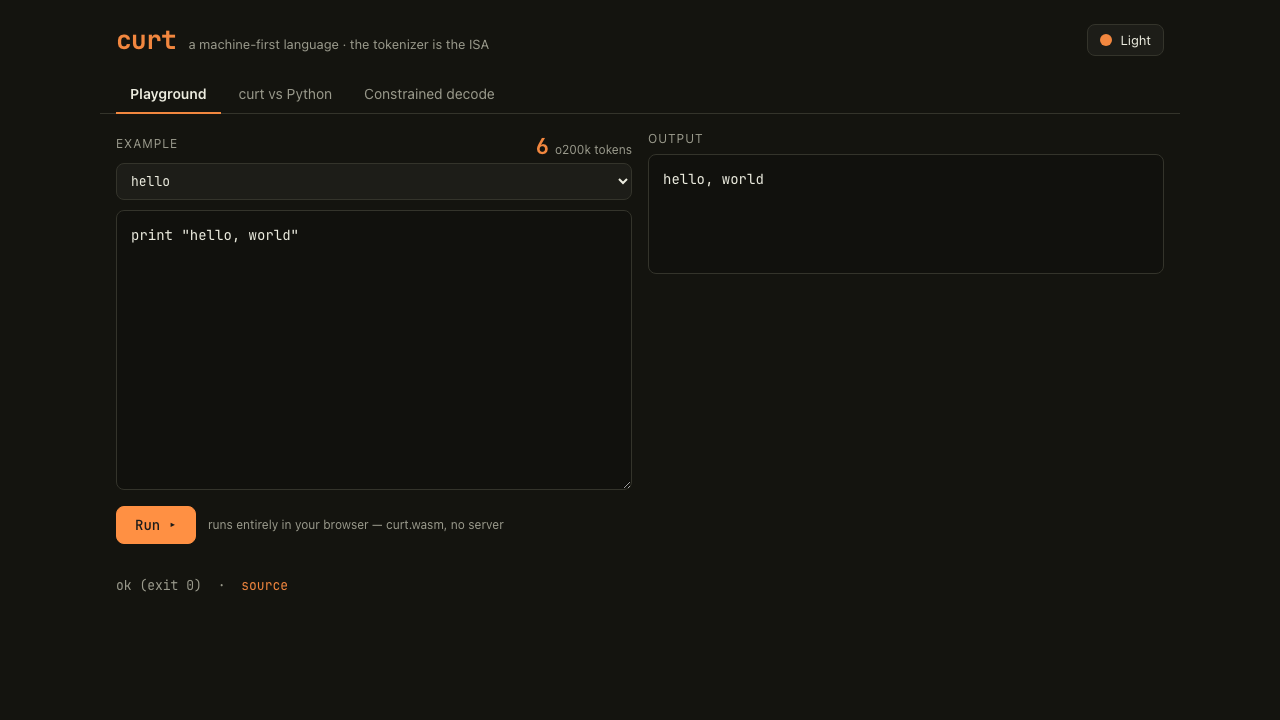
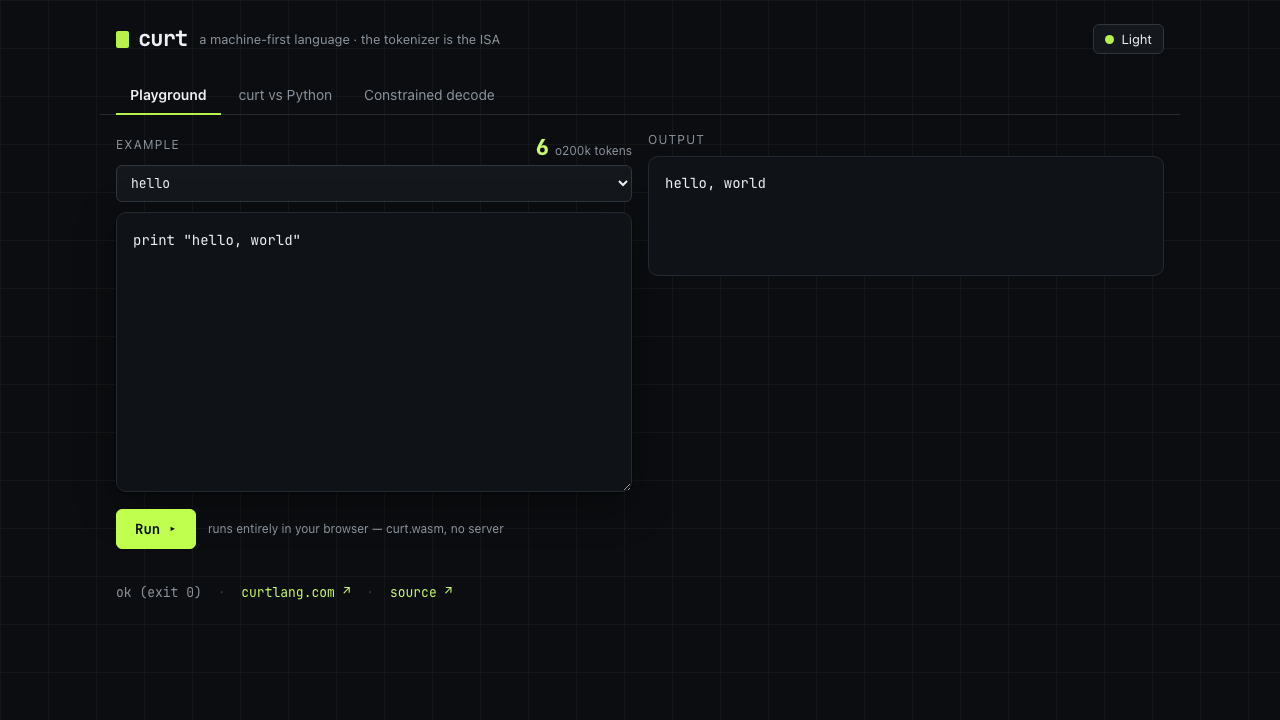
playground: re-skin to the curtlang.com fresh brand
The embedded /play/ clashed with the new brand site (old terminal-orange
tool theme). Re-skin styles.css to the fresh brand tokens (ink + lime, grid
backdrop, mono/sans, blinking brand-mark, lime meter/Run/active-tab) so the
playground is visually continuous with curtlang.com — pure CSS plus a
curtlang.com footer link. Class names and behavior unchanged: all 7
gui-scrutiny tests still pass. Stays valid as a standalone HF Space (the
home link is an absolute URL).

diff --git a/playground/styles.css b/playground/styles.css
@@ -1,37 +1,47 @@
-/* curt playground — design tokens + light/dark. Terminal-meets-docs. */
+/* curt playground — wears the curtlang.com fresh brand (ink + lime,
+   editorial-technical). Tokens mirror site/assets/brand.css so the embedded
+   /play/ is visually continuous with the marketing pages; still self-contained
+   so it stands alone as a Hugging Face Space. */
 :root {
   --font-mono: ui-monospace, "SF Mono", "JetBrains Mono", "Fira Code", Menlo, Consolas, monospace;
-  --font-sans: system-ui, -apple-system, "Segoe UI", Roboto, sans-serif;
-  --radius: 8px;
+  --font-sans: "Inter", system-ui, -apple-system, "Segoe UI", Roboto, Helvetica, Arial, sans-serif;
+  --radius: 10px;
+  --radius-sm: 6px;
   --gap: 16px;
   --maxw: 1080px;
 
-  --bg: #f7f7f4;
+  --bg: #fbfbf8;
   --surface: #ffffff;
-  --surface-2: #f0f0ec;
-  --text: #1a1a18;
-  --text-dim: #6b6b66;
-  --border: #d9d9d2;
-  --accent: #b5470b;
-  --accent-text: #ffffff;
-  --good: #1a7f4b;
-  --bad: #b5470b;
-  --code-bg: #f4f4ef;
-  --shadow: 0 1px 2px rgba(0,0,0,.06), 0 4px 12px rgba(0,0,0,.04);
+  --surface-2: #f3f3ee;
+  --text: #14171a;
+  --text-dim: #5d646c;
+  --border: #e4e4da;
+  --border-2: #d4d4c8;
+  --accent: #88c70a;          /* graphic: button bg, marks, borders */
+  --accent-strong: #4f7d06;   /* text on light */
+  --accent-text: #0b0d10;     /* text on accent bg */
+  --good: #4f7d06;
+  --bad: #9a5b00;
+  --code-bg: #f7f7f2;
+  --shadow: 0 1px 2px rgba(0,0,0,.06), 0 12px 36px rgba(0,0,0,.06);
+  --grid: rgba(0,0,0,.03);
 }
 [data-theme="dark"] {
-  --bg: #14140f;
-  --surface: #1d1d18;
-  --surface-2: #26261f;
-  --text: #ececdf;
-  --text-dim: #9a9a8c;
-  --border: #34342b;
-  --accent: #f2873f;
-  --accent-text: #1a1a18;
-  --good: #5fd99a;
-  --bad: #f2873f;
-  --code-bg: #11110d;
-  --shadow: 0 1px 2px rgba(0,0,0,.4), 0 6px 18px rgba(0,0,0,.3);
+  --bg: #0b0d10;
+  --surface: #14181d;
+  --surface-2: #191e24;
+  --text: #eef1f4;
+  --text-dim: #8a939d;
+  --border: #232a31;
+  --border-2: #2e373f;
+  --accent: #b6f24a;
+  --accent-strong: #c8f96e;
+  --accent-text: #0b0d10;
+  --good: #b6f24a;
+  --bad: #f2a93f;
+  --code-bg: #0f1216;
+  --shadow: 0 1px 2px rgba(0,0,0,.5), 0 12px 40px rgba(0,0,0,.35);
+  --grid: rgba(255,255,255,.035);
 }
 
 * { box-sizing: border-box; }
@@ -40,29 +50,40 @@ body {
   background: var(--bg);
   color: var(--text);
   font-family: var(--font-sans);
-  line-height: 1.5;
+  line-height: 1.55;
   -webkit-font-smoothing: antialiased;
+  background-image: linear-gradient(var(--grid) 1px, transparent 1px), linear-gradient(90deg, var(--grid) 1px, transparent 1px);
+  background-size: 48px 48px;
 }
 
 .topbar {
-  max-width: var(--maxw); margin: 0 auto; padding: 20px var(--gap) 8px;
+  max-width: var(--maxw); margin: 0 auto; padding: 22px var(--gap) 10px;
   display: flex; align-items: center; justify-content: space-between; gap: var(--gap);
 }
-.brand { display: flex; align-items: baseline; gap: 12px; flex-wrap: wrap; }
-.logo { font-family: var(--font-mono); font-weight: 700; font-size: 26px; color: var(--accent); letter-spacing: -.5px; }
+.brand { display: flex; align-items: center; gap: 12px; flex-wrap: wrap; }
+.logo {
+  display: inline-flex; align-items: center; gap: 9px;
+  font-family: var(--font-mono); font-weight: 700; font-size: 22px; color: var(--text); letter-spacing: -.04em;
+}
+.logo::before {
+  content: ""; width: 13px; height: 17px; background: var(--accent); border-radius: 2px;
+  display: inline-block; animation: blink 1.4s steps(2) infinite;
+}
+@keyframes blink { 50% { opacity: .25; } }
+@media (prefers-reduced-motion: reduce) { .logo::before { animation: none; } }
 .tagline { color: var(--text-dim); font-size: 13px; }
 
 .theme-toggle {
-  display: inline-flex; align-items: center; gap: 8px;
+  display: inline-flex; align-items: center; gap: 7px;
   background: var(--surface); color: var(--text);
-  border: 1px solid var(--border); border-radius: var(--radius);
-  padding: 7px 12px; cursor: pointer; font-size: 13px; font-family: var(--font-sans);
+  border: 1px solid var(--border-2); border-radius: var(--radius-sm);
+  padding: 6px 11px; cursor: pointer; font-size: 13px; font-family: var(--font-sans);
 }
 .theme-toggle:hover { border-color: var(--accent); }
-.theme-toggle-icon { width: 12px; height: 12px; border-radius: 50%; background: var(--accent); display: inline-block; }
+.theme-toggle-icon { width: 9px; height: 9px; border-radius: 50%; background: var(--accent); display: inline-block; }
 
 .tabs {
-  max-width: var(--maxw); margin: 8px auto 0; padding: 0 var(--gap);
+  max-width: var(--maxw); margin: 10px auto 0; padding: 0 var(--gap);
   display: flex; gap: 4px; border-bottom: 1px solid var(--border);
 }
 .tab {
@@ -82,39 +103,41 @@ main { max-width: var(--maxw); margin: 0 auto; padding: var(--gap); }
 
 .row { display: flex; align-items: center; gap: 12px; margin-top: 10px; }
 .row.between { justify-content: space-between; margin-top: 0; }
-.label { font-size: 12px; text-transform: uppercase; letter-spacing: .08em; color: var(--text-dim); margin-bottom: 6px; }
+.label { font-size: 12px; text-transform: uppercase; letter-spacing: .1em; color: var(--text-dim); margin-bottom: 6px; }
 
 .select {
   width: 100%; padding: 8px 10px; margin-bottom: 10px;
   background: var(--surface); color: var(--text);
-  border: 1px solid var(--border); border-radius: var(--radius);
+  border: 1px solid var(--border-2); border-radius: var(--radius-sm);
   font-family: var(--font-mono); font-size: 13px;
 }
 .editor {
   width: 100%; min-height: 280px; resize: vertical;
   background: var(--code-bg); color: var(--text);
   border: 1px solid var(--border); border-radius: var(--radius);
-  padding: 14px; font-family: var(--font-mono); font-size: 14px; line-height: 1.55; tab-size: 2;
+  padding: 16px; font-family: var(--font-mono); font-size: 14px; line-height: 1.7; tab-size: 2;
+  box-shadow: var(--shadow);
 }
 .editor:focus { outline: 2px solid var(--accent); outline-offset: -1px; }
 
 .meter { display: flex; align-items: baseline; gap: 6px; }
-.meter-num { font-family: var(--font-mono); font-size: 22px; font-weight: 700; color: var(--accent); }
+.meter-num { font-family: var(--font-mono); font-size: 22px; font-weight: 750; color: var(--accent-strong); }
 .meter-unit { font-size: 12px; color: var(--text-dim); }
 
 .btn {
-  background: var(--surface-2); color: var(--text); border: 1px solid var(--border);
-  border-radius: var(--radius); padding: 9px 18px; cursor: pointer;
-  font-family: var(--font-mono); font-size: 14px; font-weight: 600;
+  background: var(--surface-2); color: var(--text); border: 1px solid var(--border-2);
+  border-radius: var(--radius-sm); padding: 10px 18px; cursor: pointer;
+  font-family: var(--font-mono); font-size: 14px; font-weight: 650;
 }
+.btn:hover { border-color: var(--accent); }
 .btn.primary { background: var(--accent); color: var(--accent-text); border-color: var(--accent); }
-.btn.primary:hover { filter: brightness(1.07); }
+.btn.primary:hover { filter: brightness(1.06); }
 .btn:disabled { opacity: .5; cursor: default; }
 .hint { color: var(--text-dim); font-size: 12px; }
 
 .output {
   background: var(--code-bg); border: 1px solid var(--border); border-radius: var(--radius);
-  padding: 14px; min-height: 120px; margin: 0;
+  padding: 16px; min-height: 120px; margin: 0;
   font-family: var(--font-mono); font-size: 14px; white-space: pre-wrap; word-break: break-word;
 }
 .output.err { color: var(--bad); }
@@ -122,41 +145,43 @@ main { max-width: var(--maxw); margin: 0 auto; padding: var(--gap); }
 
 .blurb { color: var(--text-dim); max-width: 60ch; }
 .vs-summary { display: flex; align-items: baseline; gap: 12px; margin: 8px 0 18px; flex-wrap: wrap; }
-.vs-summary .big { font-family: var(--font-mono); font-size: 40px; font-weight: 700; color: var(--good); }
+.vs-summary .big { font-family: var(--font-mono); font-size: 40px; font-weight: 750; color: var(--accent-strong); }
 .vs-summary .big-label { color: var(--text-dim); font-size: 13px; }
 
 .vs-table { width: 100%; border-collapse: collapse; font-size: 14px; }
-.vs-table th, .vs-table td { text-align: left; padding: 9px 12px; border-bottom: 1px solid var(--border); }
+.vs-table th, .vs-table td { text-align: left; padding: 10px 12px; border-bottom: 1px solid var(--border); }
 .vs-table th.num, .vs-table td.num { text-align: right; font-family: var(--font-mono); }
+.vs-table th { font-size: 12px; letter-spacing: .08em; text-transform: uppercase; color: var(--text-dim); font-weight: 600; }
 .vs-table .ex-name { font-family: var(--font-mono); }
 .vs-table tbody tr:hover { background: var(--surface-2); }
-.num.good { color: var(--good); }
+.num.good { color: var(--accent-strong); }
 .num.bad { color: var(--bad); }
 
 .gallery-stats { display: flex; gap: var(--gap); flex-wrap: wrap; margin: 12px 0 20px; }
 .stat {
   background: var(--surface); border: 1px solid var(--border); border-radius: var(--radius);
-  padding: 12px 16px; box-shadow: var(--shadow); min-width: 130px;
+  padding: 14px 18px; box-shadow: var(--shadow); min-width: 140px;
 }
-.stat-num { display: block; font-family: var(--font-mono); font-size: 24px; font-weight: 700; color: var(--accent); }
+.stat-num { display: block; font-family: var(--font-mono); font-size: 24px; font-weight: 750; color: var(--accent-strong); }
 .stat-label { font-size: 12px; color: var(--text-dim); }
 
 .gallery-grid { display: grid; grid-template-columns: repeat(auto-fill, minmax(240px, 1fr)); gap: 12px; }
 .sample {
   background: var(--surface); border: 1px solid var(--border); border-left-width: 3px;
-  border-radius: var(--radius); padding: 10px 12px; box-shadow: var(--shadow);
+  border-radius: var(--radius); padding: 11px 13px; box-shadow: var(--shadow);
 }
-.sample.pass { border-left-color: var(--good); }
+.sample.pass { border-left-color: var(--accent); }
 .sample.fail { border-left-color: var(--bad); }
 .sample-head { margin-bottom: 6px; }
 .badge { font-size: 11px; text-transform: uppercase; letter-spacing: .06em; color: var(--text-dim); }
-.sample.pass .badge { color: var(--good); }
+.sample.pass .badge { color: var(--accent-strong); }
 .sample.fail .badge { color: var(--bad); }
 .sample-code { margin: 0; font-family: var(--font-mono); font-size: 13px; white-space: pre-wrap; word-break: break-word; color: var(--text); }
 
 .footer {
-  max-width: var(--maxw); margin: 0 auto; padding: 16px var(--gap) 32px;
+  max-width: var(--maxw); margin: 0 auto; padding: 18px var(--gap) 32px;
   color: var(--text-dim); font-size: 13px; font-family: var(--font-mono);
 }
-.footer a { color: var(--accent); text-decoration: none; }
-.footer .sep { margin: 0 8px; }
+.footer a { color: var(--accent-strong); text-decoration: none; }
+.footer a:hover { text-decoration: underline; text-underline-offset: 3px; }
+.footer .sep { margin: 0 8px; color: var(--border-2); }

diff --git a/playground/index.html b/playground/index.html
@@ -80,7 +80,9 @@
   <footer class="footer">
     <span id="status" data-testid="status">loading curt.wasm…</span>
     <span class="sep">·</span>
-    <a href="https://github.com/AlrikOlson/curt">source</a>
+    <a href="https://curtlang.com">curtlang.com ↗</a>
+    <span class="sep">·</span>
+    <a href="https://github.com/AlrikOlson/curt">source ↗</a>
   </footer>
 
   <script type="module" src="./dist/app.bundle.js"></script>